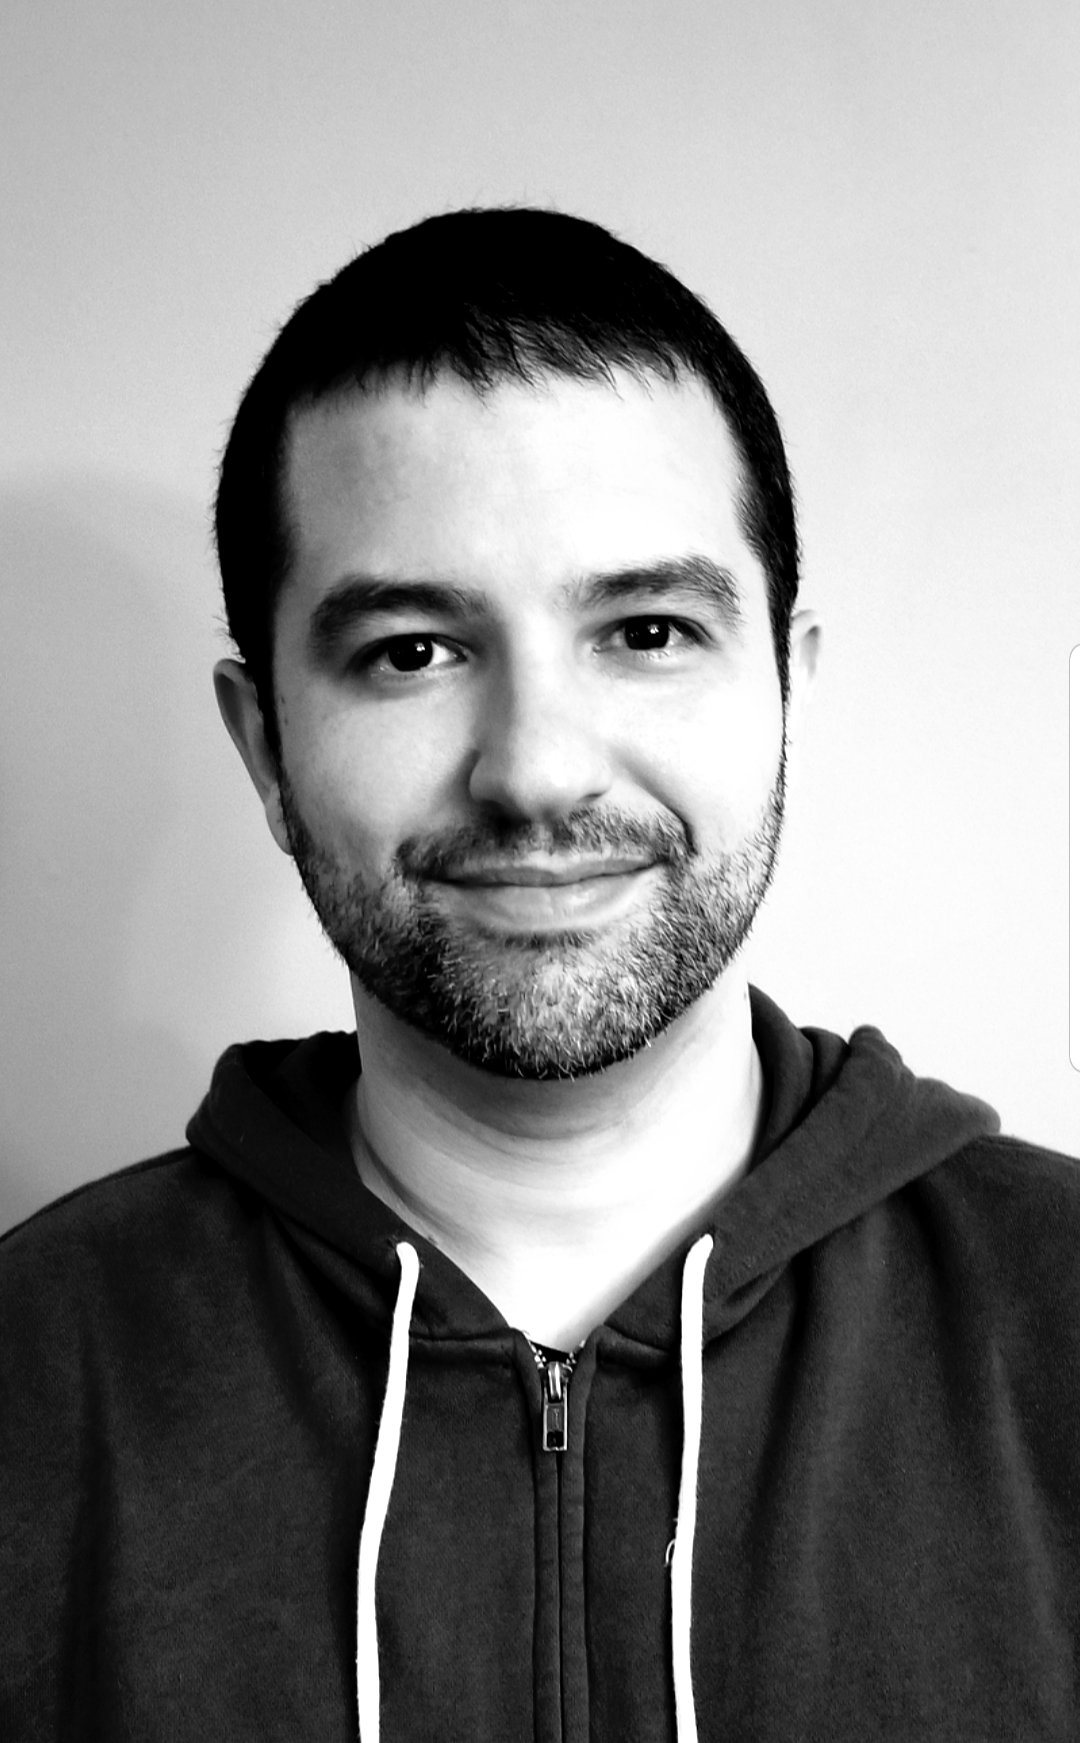
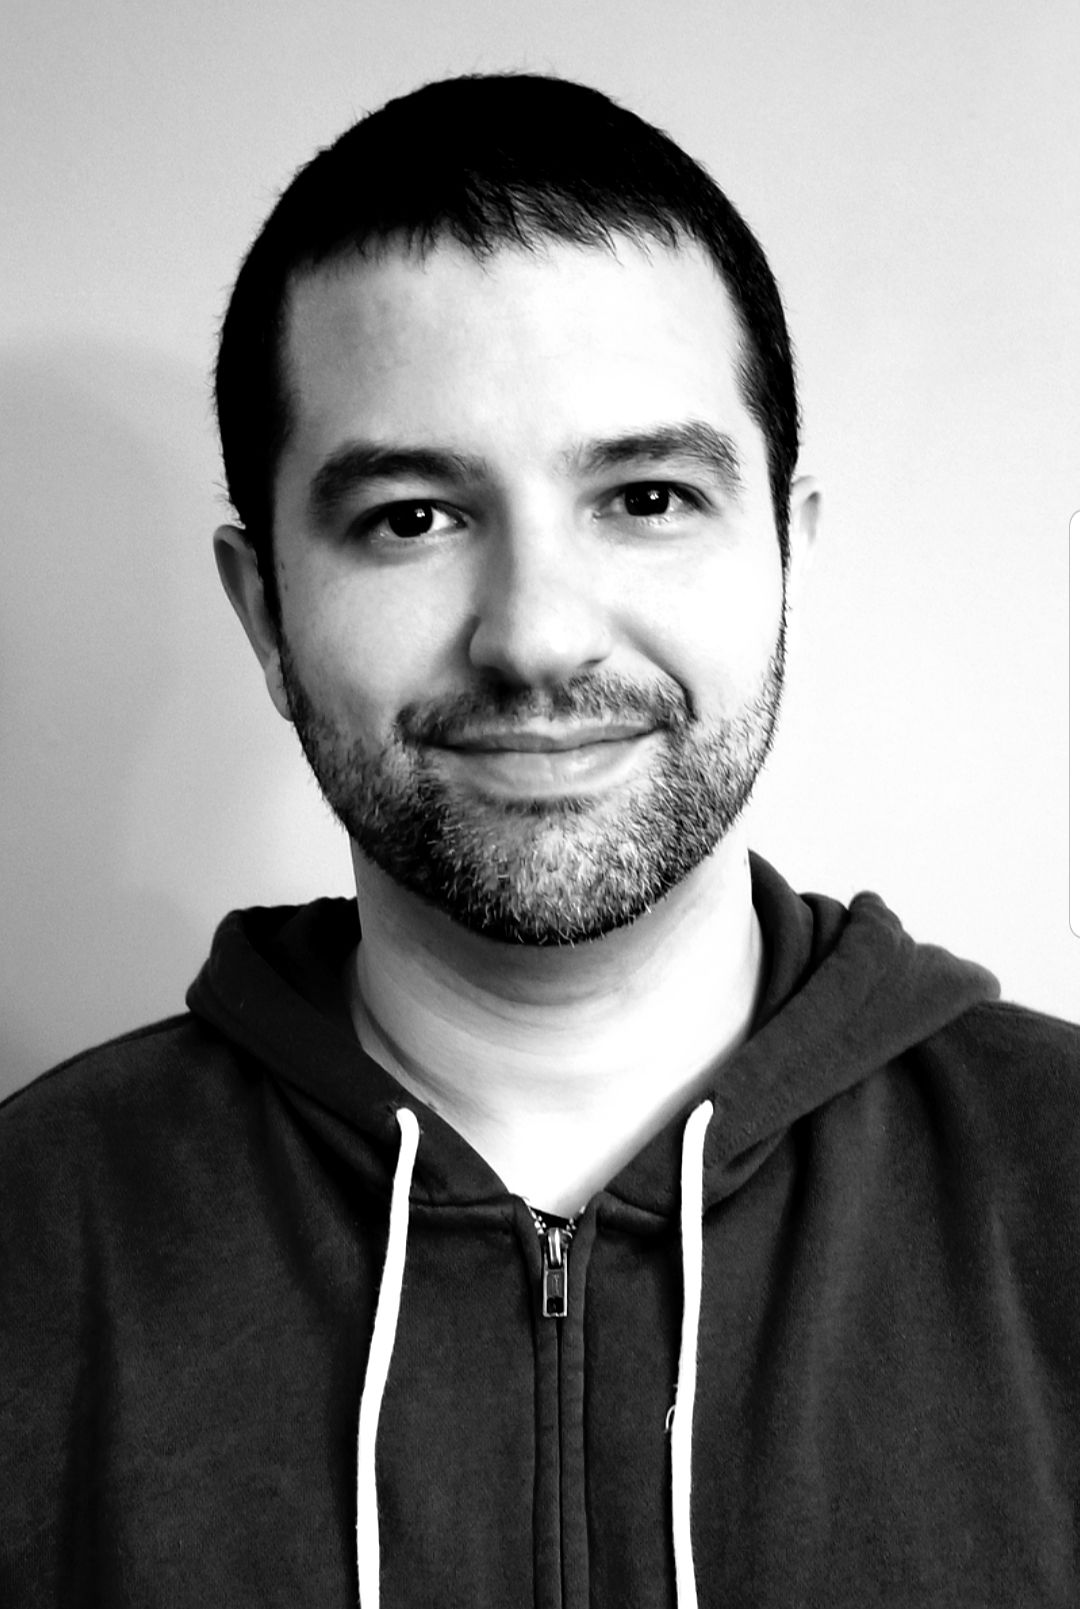
Changed some wording on the resume page. Cropped the image in the welcome section. Altered some styles for the image and changed some style values to double quotes to match the others.

diff --git a/src/pages/index.js b/src/pages/index.js
@@ -66,14 +66,6 @@ const useStyles = makeStyles({
     transform: "perspective(100px) translateZ(0px)",
     filter: "drop-shadow(2px 2px 0 rgb(255,165,0))",
   },
-  // iconThree: {
-  //   display: "flex",
-  //   color: "#000",
-  //   margin: "2rem",
-  //   transition: "transform 1s",
-  //   transform: "perspective(100px) translateZ(0px)",
-  //   filter: "drop-shadow(2px 2px 0 rgb(255,255,0))",
-  // },
   iconFour: {
     display: "flex",
     color: "#000",
@@ -89,7 +81,6 @@ const Home = () => {
   const theme = useTheme()
   const [iconOneHover, setIconOneHover] = React.useState(false)
   const [iconTwoHover, setIconTwoHover] = React.useState(false)
-  const [iconThreeHover, setIconThreeHover] = React.useState(false)
   const [iconFourHover, setIconFourHover] = React.useState(false)
   const [projectOneHover, setProjectOneHover] = React.useState(false)
   const [projectTwoHover, setProjectTwoHover] = React.useState(false)
@@ -98,7 +89,6 @@ const Home = () => {
   const iconContactStyle = classes.iconContact
   const iconOneStyle = classes.iconOne
   const iconTwoStyle = classes.iconTwo
-  const iconThreeStyle = classes.iconThree
   const iconFourStyle = classes.iconFour
 
   const mobileTechnologiesList = useMediaQuery(
@@ -125,26 +115,25 @@ const Home = () => {
       <section id="welcome" className={classes.welcomeSectionStyles}>
         <div
           style={{
-            width: `100%`,
+            width: "100%",
             display: "flex",
             justifyContent: "center",
           }}
         >
           <div
             style={{
-              width: `100%`,
-              maxWidth: `15rem`,
+              width: "100%",
+              maxWidth: "15rem",
               height: "15rem",
-              margin: `2rem 0 2rem 0`,
+              margin: "2rem 0 2rem 0",
               background: "rgba(0, 0, 0, 0.07)",
               borderRadius: "50% 50% 50% 50%",
               overflow: "hidden",
-              paddingTop: "1rem",
             }}
           >
             <ImageReusable
               alt="picture of school site project"
-              filename="PortfolioPicture.jpg"
+              filename="profile-picture-new-classic.jpg"
             />
           </div>
         </div>

diff --git a/src/pages/resume.js b/src/pages/resume.js
@@ -120,7 +120,7 @@ const Resume = () => {
           </div>
           <h2>Work Experience</h2>
           <h4>
-            Self Taught Web Developer <br />
+            Web Developer - Self Taught <br />
             January 2019 – Present
             <br />
             <ul style={{ marginTop: "1rem" }}>
@@ -129,10 +129,7 @@ const Resume = () => {
                 Build web applications for my professional portfolio and make
                 templates for potential freelance work
               </li>
-              <li>
-                Use my research skills to consume all the great resources on the
-                internet and then learn by doing
-              </li>
+              <li>Use my research skills to learn and apply</li>
             </ul>
           </h4>
           <h4>
